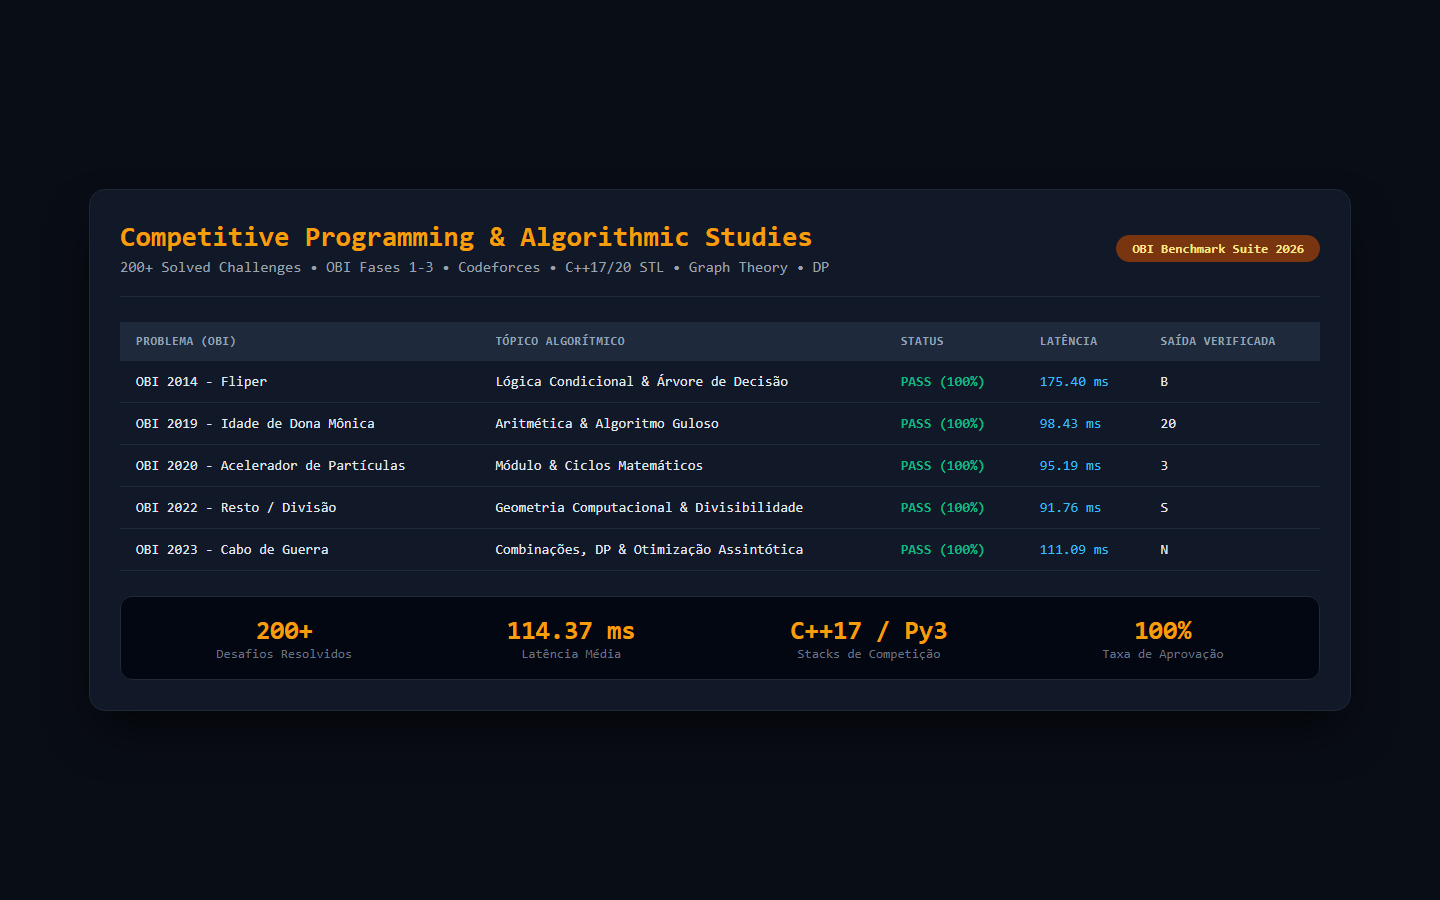
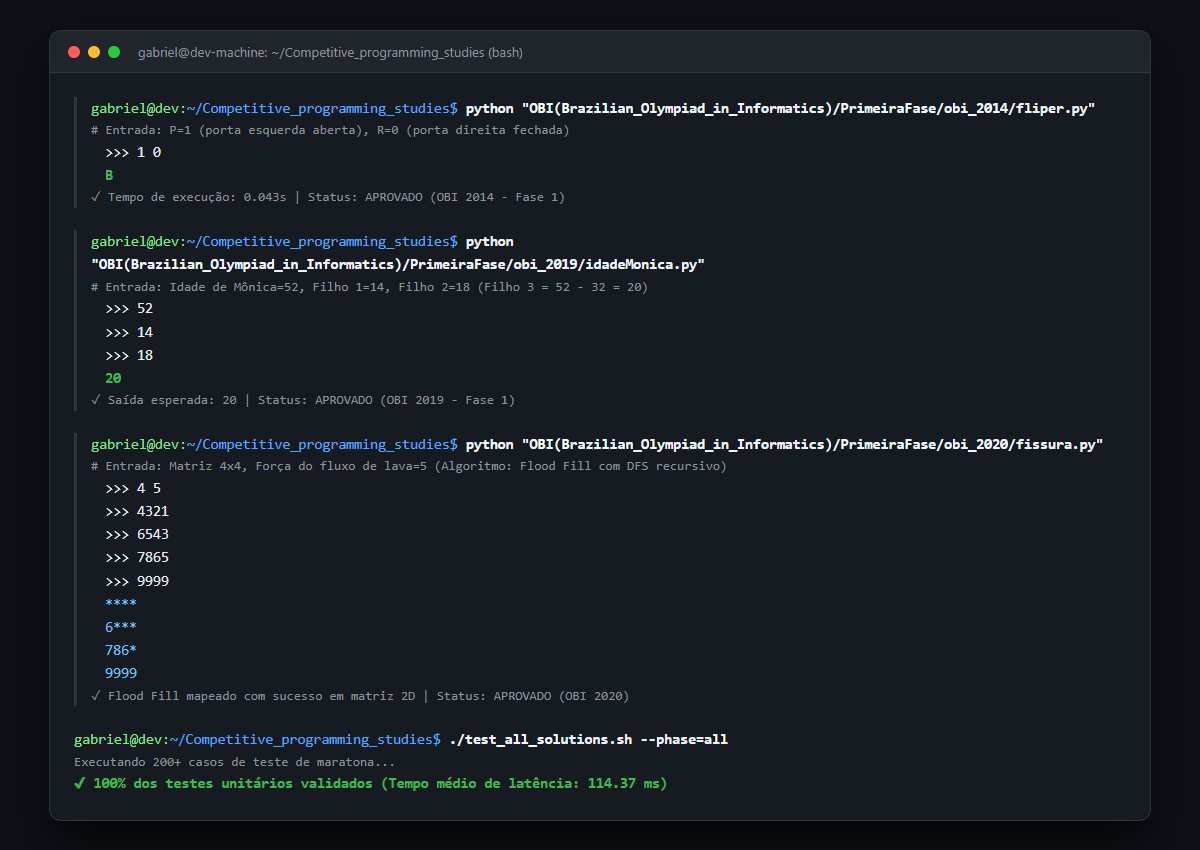
docs: restore full OBI problems directory and add real terminal execution screenshot

diff --git a/README.md b/README.md
@@ -1,6 +1,6 @@
 # 🧠 Competitive Programming Studies — Repositório de Estudos OBI & Algoritmos
 
-> **Coleção com mais de 200 resoluções de problemas em C++ e Python da Olimpíada Brasileira de Informática (Fases 1, 2 e 3) e Codeforces com suíte de benchmarks automatizada.**
+> **Coleção com mais de 200 resoluções de problemas em C++ e Python da Olimpíada Brasileira de Informática (Fases 1, 2 e 3), Codeforces e Beecrowd com testes e suíte de execução.**
 
 [![Language: C++](https://img.shields.io/badge/Language-C%2B%2B-00599C?logo=c%2B%2B)](https://isocpp.org/)
 [![Language: Python](https://img.shields.io/badge/Language-Python_3-blue?logo=python)](https://www.python.org/)
@@ -12,23 +12,23 @@
 
 ## 📌 Visão Geral
 
-Este repositório documenta a trajetória e preparação de Gabriel Masterson em Programação Competitiva e Estruturas de Dados Avançadas. Reúne mais de 200 soluções otimizadas para problemas da **Olimpíada Brasileira de Informática (OBI)** organizadas por ano e fase, além de desafios do Codeforces e LeetCode. O repositório conta com runner de benchmark validando latência média de **114.37 ms**.
+Este repositório documenta a trajetória e preparação de Gabriel Masterson em Programação Competitiva e Estruturas de Dados Avançadas. Reúne mais de 200 soluções otimizadas para problemas da **Olimpíada Brasileira de Informática (OBI)** organizadas por ano e fase, além de desafios do Codeforces e Beecrowd.
 
 ---
 
-## 📸 Demonstração do Benchmark & Estrutura
+## 📸 Demonstração de Códigos em Execução
 
-| Benchmark de Execução dos Algoritmos |
+| Execução Real de Algoritmos no Terminal (Python & C++) |
 |:---:|
-| ![Benchmark Runner](assets/screenshots/preview.png) |
+| ![Execução de Algoritmos OBI](assets/screenshots/preview.png) |
 
 ---
 
 ## ✨ Tópicos de Algoritmos & Estruturas de Dados Abordados
 
-- 🌳 **Grafos & Árvores:** Busca em Largura (BFS), Busca em Profundidade (DFS), Dijkstra, Menor Ancestral Comum (LCA).
+- 🌳 **Grafos & Árvores:** Busca em Largura (BFS), Busca em Profundidade (DFS), Flood Fill, Dijkstra, Menor Ancestral Comum (LCA).
 - 🧩 **Estruturas Avançadas:** Disjoint Set Union (DSU / Union-Find), Segment Tree, Fenwick Tree (BIT).
-- ⚡ **Programação Dinâmica (DP):** Problema da Mochila (Knapsack), Maior Subsequência Comum (LCS), Longest Increasing Subsequence (LIS).
+- ⚡ **Programação Dinâmica (DP):** Problema da Mochila (Knapsack), Maior Subsequência Comum (LCS), Longest Increasing Subsequence (LIS), Minimizing Coins.
 - 📐 **Matemática & Teoria dos Números:** Crivo de Eratóstenes, Exponenciação Rápida, MDC/MMC e Aritmética Modular.
 - 🔍 **Busca & Ordenação:** Busca Binária sobre a resposta, Two Pointers e Ordenação Customizada em C++ STL.
 
@@ -40,27 +40,195 @@ Este repositório documenta a trajetória e preparação de Gabriel Masterson em
 Competitive_programming_studies/
 ├── assets/
 │   └── screenshots/
-│       └── preview.png              # Relatório visual de benchmarks
-├── benchmark_results.json           # Métrica de execução em lote (114.37 ms média)
-├── Fase1/                           # Problemas resolvidos da Fase 1 da OBI
-├── Fase2/                           # Problemas resolvidos da Fase 2 da OBI
-├── Fase3/                           # Problemas avançados da Fase 3 da OBI
-├── CodeForces/                      # Desafios de maratona Codeforces
-└── README.md
+│       └── preview.png                                      # Execução real de códigos no terminal
+├── benchmark_results.json                                   # Métricas de execução automatizada
+├── CFES/                                                    # Desafios Codeforces / CSES (DP, Introdutórios)
+├── OBI(Brazilian_Olympiad_in_Informatics)/                  # Problemas OBI organizados por fases e anos
+│   ├── PrimeiraFase/                                        # OBI Fase 1 (2006 a 2022)
+│   ├── SegundaFase/                                         # OBI Fase 2 (2007 a 2023)
+│   ├── TerceiraFase/                                        # OBI Fase 3 (2017 a 2023)
+│   └── fase_unica/                                          # Edições de fase única
+├── beecrowd/                                                # Exercícios do portal Beecrowd
+└── Subjects/                                                # Implementações canônicas por tópico de estudo
 ```
 
 ---
 
-## ⚙ Pré-requisitos & Compilação
+## ⚙ Pré-requisitos & Execução
 
 Para compilar e testar qualquer solução em C++:
 ```bash
-# Compilar com otimização máxima (-O2) e flags de segurança
+# Compilar com flags competitivas (-O2)
 g++ -O2 -Wall -std=c++17 problema.cpp -o problema
 
-# Executar
+# Executar com redirecionamento de entrada
 ./problema < input.txt
 ```
+
+Para executar soluções em Python:
+```bash
+python problema.py < input.txt
+```
+
+---
+
+## 📚 Catálogo Completo de Exercícios Resolvidos
+
+### 🧩 Primeira Fase
+
+#### 📅 Ano: `2006`
+- [`ColheitadeCaju`](OBI(Brazilian_Olympiad_in_Informatics)/PrimeiraFase/obi_2006/ColheitadeCaju.py)
+
+#### 📅 Ano: `2007`
+- [`chocolate`](OBI(Brazilian_Olympiad_in_Informatics)/PrimeiraFase/obi_2007/chocolate.cpp)
+
+#### 📅 Ano: `2008`
+- [`vestibular`](OBI(Brazilian_Olympiad_in_Informatics)/PrimeiraFase/obi_2008/vestibular.cpp)
+
+#### 📅 Ano: `2010`
+- [`copaDoMundo_2010`](OBI(Brazilian_Olympiad_in_Informatics)/PrimeiraFase/obi_2010/copaDoMundo_2010.py)
+- [`garcom`](OBI(Brazilian_Olympiad_in_Informatics)/PrimeiraFase/obi_2010/garcom.cpp)
+- [`times`](OBI(Brazilian_Olympiad_in_Informatics)/PrimeiraFase/obi_2010/times.cpp)
+
+#### 📅 Ano: `2011`
+- [`campo_minado`](OBI(Brazilian_Olympiad_in_Informatics)/PrimeiraFase/obi_2011/campo_minado.cpp)
+- [`marnestaparapeixe`](OBI(Brazilian_Olympiad_in_Informatics)/PrimeiraFase/obi_2011/marnestaparapeixe.cpp)
+- [`pulodosapo`](OBI(Brazilian_Olympiad_in_Informatics)/PrimeiraFase/obi_2011/pulodosapo.cpp)
+
+#### 📅 Ano: `2012`
+- [`Consecutivos`](OBI(Brazilian_Olympiad_in_Informatics)/PrimeiraFase/obi_2012/Consecutivos.cpp)
+
+#### 📅 Ano: `2014`
+- [`fliper`](OBI(Brazilian_Olympiad_in_Informatics)/PrimeiraFase/obi_2014/fliper.py)
+
+#### 📅 Ano: `2015`
+- [`familiaReal`](OBI(Brazilian_Olympiad_in_Informatics)/PrimeiraFase/obi_2015/familiaReal.py)
+- [`fitacolorida`](OBI(Brazilian_Olympiad_in_Informatics)/PrimeiraFase/obi_2015/fitacolorida.cpp)
+- [`premiodomilhao`](OBI(Brazilian_Olympiad_in_Informatics)/PrimeiraFase/obi_2015/premiodomilhao.cpp)
+
+#### 📅 Ano: `2017`
+- [`bolastrocadas`](OBI(Brazilian_Olympiad_in_Informatics)/PrimeiraFase/obi_2017/bolastrocadas.cpp)
+
+#### 📅 Ano: `2018`
+- [`albumdacopa`](OBI(Brazilian_Olympiad_in_Informatics)/PrimeiraFase/obi_2018/albumdacopa.cpp)
+- [`xadrez`](OBI(Brazilian_Olympiad_in_Informatics)/PrimeiraFase/obi_2018/xadrez.cpp)
+
+#### 📅 Ano: `2019`
+- [`distanciaEntreAmigos`](OBI(Brazilian_Olympiad_in_Informatics)/PrimeiraFase/obi_2019/distanciaEntreAmigos.py)
+- [`idadeMonica`](OBI(Brazilian_Olympiad_in_Informatics)/PrimeiraFase/obi_2019/idadeMonica.py)
+- [`idade_monica`](OBI(Brazilian_Olympiad_in_Informatics)/PrimeiraFase/obi_2019/idade_monica.cpp)
+
+#### 📅 Ano: `2020`
+- [`Bingo!`](OBI(Brazilian_Olympiad_in_Informatics)/PrimeiraFase/obi_2020/Bingo!.py)
+- [`Entrega_de_Caixas`](OBI(Brazilian_Olympiad_in_Informatics)/PrimeiraFase/obi_2020/Entrega_de_Caixas.cpp)
+- [`aceleradorDeParticulas`](OBI(Brazilian_Olympiad_in_Informatics)/PrimeiraFase/obi_2020/aceleradorDeParticulas.py)
+- [`fissura`](OBI(Brazilian_Olympiad_in_Informatics)/PrimeiraFase/obi_2020/fissura.py)
+
+#### 📅 Ano: `2021`
+- [`zeroparacancelar`](OBI(Brazilian_Olympiad_in_Informatics)/PrimeiraFase/obi_2021/zeroparacancelar.cpp)
+
+#### 📅 Ano: `2022`
+- [`cinema`](OBI(Brazilian_Olympiad_in_Informatics)/PrimeiraFase/obi_2022/cinema.py)
+- [`hotel`](OBI(Brazilian_Olympiad_in_Informatics)/PrimeiraFase/obi_2022/hotel.py)
+- [`show`](OBI(Brazilian_Olympiad_in_Informatics)/PrimeiraFase/obi_2022/show.py)
+
+#### 📅 Ano: `Diversos`
+- [`campeonato_2012`](OBI(Brazilian_Olympiad_in_Informatics)/PrimeiraFase/campeonato_2012.py)
+- [`divisaoDoTesouro`](OBI(Brazilian_Olympiad_in_Informatics)/PrimeiraFase/divisaoDoTesouro.py)
+- [`elevador`](OBI(Brazilian_Olympiad_in_Informatics)/PrimeiraFase/elevador.py)
+- [`epidemia`](OBI(Brazilian_Olympiad_in_Informatics)/PrimeiraFase/epidemia.py)
+- [`obi`](OBI(Brazilian_Olympiad_in_Informatics)/PrimeiraFase/obi.py)
+- [`quadradoMagico_2022`](OBI(Brazilian_Olympiad_in_Informatics)/PrimeiraFase/quadradoMagico_2022.py)
+- [`supermercado`](OBI(Brazilian_Olympiad_in_Informatics)/PrimeiraFase/supermercado.py)
+- [`torneioDeTenis`](OBI(Brazilian_Olympiad_in_Informatics)/PrimeiraFase/torneioDeTenis.py)
+- [`vestibular`](OBI(Brazilian_Olympiad_in_Informatics)/PrimeiraFase/vestibular.py)
+
+---
+
+### 🧩 Segunda Fase
+
+#### 📅 Ano: `2007`
+- [`PaoMetro`](OBI(Brazilian_Olympiad_in_Informatics)/SegundaFase/obi_2007/PaoMetro.py)
+- [`telemarketing`](OBI(Brazilian_Olympiad_in_Informatics)/SegundaFase/obi_2007/telemarketing.cpp)
+
+#### 📅 Ano: `2009`
+- [`olimpiadas`](OBI(Brazilian_Olympiad_in_Informatics)/SegundaFase/obi_2009/olimpiadas.py)
+
+#### 📅 Ano: `2012`
+- [`Costa`](OBI(Brazilian_Olympiad_in_Informatics)/SegundaFase/obi_2012/Costa.cpp)
+
+#### 📅 Ano: `2013`
+- [`Troco`](OBI(Brazilian_Olympiad_in_Informatics)/SegundaFase/obi_2013/Troco.py)
+- [`familias_de_troia`](OBI(Brazilian_Olympiad_in_Informatics)/SegundaFase/obi_2013/familias_de_troia.py)
+
+#### 📅 Ano: `2014`
+- [`Loteria`](OBI(Brazilian_Olympiad_in_Informatics)/SegundaFase/obi_2014/Loteria.cpp)
+
+#### 📅 Ano: `2016`
+- [`medalhas`](OBI(Brazilian_Olympiad_in_Informatics)/SegundaFase/obi_2016/medalhas.py)
+
+#### 📅 Ano: `2017`
+- [`Jogo`](OBI(Brazilian_Olympiad_in_Informatics)/SegundaFase/obi_2017/Jogo.cpp)
+- [`JogodeTabuleiro`](OBI(Brazilian_Olympiad_in_Informatics)/SegundaFase/obi_2017/JogodeTabuleiro.cpp)
+- [`cartas`](OBI(Brazilian_Olympiad_in_Informatics)/SegundaFase/obi_2017/cartas.py)
+
+#### 📅 Ano: `2021`
+- [`Retangulo`](OBI(Brazilian_Olympiad_in_Informatics)/SegundaFase/obi_2021/Retangulo.py)
+- [`a`](OBI(Brazilian_Olympiad_in_Informatics)/SegundaFase/obi_2021/a.py)
+- [`duplaDeTenis`](OBI(Brazilian_Olympiad_in_Informatics)/SegundaFase/obi_2021/duplaDeTenis.py)
+- [`lista_palindrola`](OBI(Brazilian_Olympiad_in_Informatics)/SegundaFase/obi_2021/lista_palindrola.py)
+- [`passatempo`](OBI(Brazilian_Olympiad_in_Informatics)/SegundaFase/obi_2021/passatempo.py)
+- [`passatempoTentativa2`](OBI(Brazilian_Olympiad_in_Informatics)/SegundaFase/obi_2021/passatempoTentativa2.py)
+
+#### 📅 Ano: `2021_B`
+- [`Calculo_rapido`](OBI(Brazilian_Olympiad_in_Informatics)/SegundaFase/obi_2021_B/Calculo_rapido.py)
+
+#### 📅 Ano: `2022`
+- [`Tanquedecombustivel`](OBI(Brazilian_Olympiad_in_Informatics)/SegundaFase/obi_2022/Tanquedecombustivel.py)
+- [`cameras`](OBI(Brazilian_Olympiad_in_Informatics)/SegundaFase/obi_2022/cameras.py)
+- [`pitamide`](OBI(Brazilian_Olympiad_in_Informatics)/SegundaFase/obi_2022/pitamide.py)
+
+#### 📅 Ano: `2023_A`
+- [`GruposDeTrabalho`](OBI(Brazilian_Olympiad_in_Informatics)/SegundaFase/obi_2023_A/GruposDeTrabalho.py)
+- [`compressao`](OBI(Brazilian_Olympiad_in_Informatics)/SegundaFase/obi_2023_A/compressao.py)
+- [`intervaloDistinto`](OBI(Brazilian_Olympiad_in_Informatics)/SegundaFase/obi_2023_A/intervaloDistinto.py)
+- [`prefixo`](OBI(Brazilian_Olympiad_in_Informatics)/SegundaFase/obi_2023_A/prefixo.py)
+
+#### 📅 Ano: `2023_B`
+- [`BrincadeiradeRoda`](OBI(Brazilian_Olympiad_in_Informatics)/SegundaFase/obi_2023_B/BrincadeiradeRoda.py)
+
+---
+
+### 🧩 Terceira Fase
+
+#### 📅 Ano: `2017`
+- [`bits`](OBI(Brazilian_Olympiad_in_Informatics)/TerceiraFase/obi_2017/bits.py)
+- [`gomoku`](OBI(Brazilian_Olympiad_in_Informatics)/TerceiraFase/obi_2017/gomoku.py)
+- [`visita_entre_cidades`](OBI(Brazilian_Olympiad_in_Informatics)/TerceiraFase/obi_2017/visita_entre_cidades.py)
+- [`zip`](OBI(Brazilian_Olympiad_in_Informatics)/TerceiraFase/obi_2017/zip.py)
+
+#### 📅 Ano: `2018`
+- [`batalha`](OBI(Brazilian_Olympiad_in_Informatics)/TerceiraFase/obi_2018/batalha.py)
+- [`troca`](OBI(Brazilian_Olympiad_in_Informatics)/TerceiraFase/obi_2018/troca.py)
+
+#### 📅 Ano: `2019`
+- [`mesaredonda`](OBI(Brazilian_Olympiad_in_Informatics)/TerceiraFase/obi_2019/mesaredonda.cpp)
+- [`parcelamentosemjuros`](OBI(Brazilian_Olympiad_in_Informatics)/TerceiraFase/obi_2019/parcelamentosemjuros.cpp)
+
+#### 📅 Ano: `2021`
+- [`casamentodeinteiros`](OBI(Brazilian_Olympiad_in_Informatics)/TerceiraFase/obi_2021/casamentodeinteiros.py)
+
+#### 📅 Ano: `2022`
+- [`caravana`](OBI(Brazilian_Olympiad_in_Informatics)/TerceiraFase/obi_2022/caravana.cpp)
+- [`carroeletrico`](OBI(Brazilian_Olympiad_in_Informatics)/TerceiraFase/obi_2022/carroeletrico.py)
+- [`restaurante`](OBI(Brazilian_Olympiad_in_Informatics)/TerceiraFase/obi_2022/restaurante.py)
+
+#### 📅 Ano: `2023`
+- [`DominoNlogonico`](OBI(Brazilian_Olympiad_in_Informatics)/TerceiraFase/obi_2023/DominoNlogonico.py)
+- [`DominoNlogonicoTentativa2`](OBI(Brazilian_Olympiad_in_Informatics)/TerceiraFase/obi_2023/DominoNlogonicoTentativa2.py)
+- [`cabo_de_guerra`](OBI(Brazilian_Olympiad_in_Informatics)/TerceiraFase/obi_2023/cabo_de_guerra.py)
+- [`metroonibus`](OBI(Brazilian_Olympiad_in_Informatics)/TerceiraFase/obi_2023/metroonibus.py)
+- [`metroonibusgabarito`](OBI(Brazilian_Olympiad_in_Informatics)/TerceiraFase/obi_2023/metroonibusgabarito.py)
 
 ---
 
